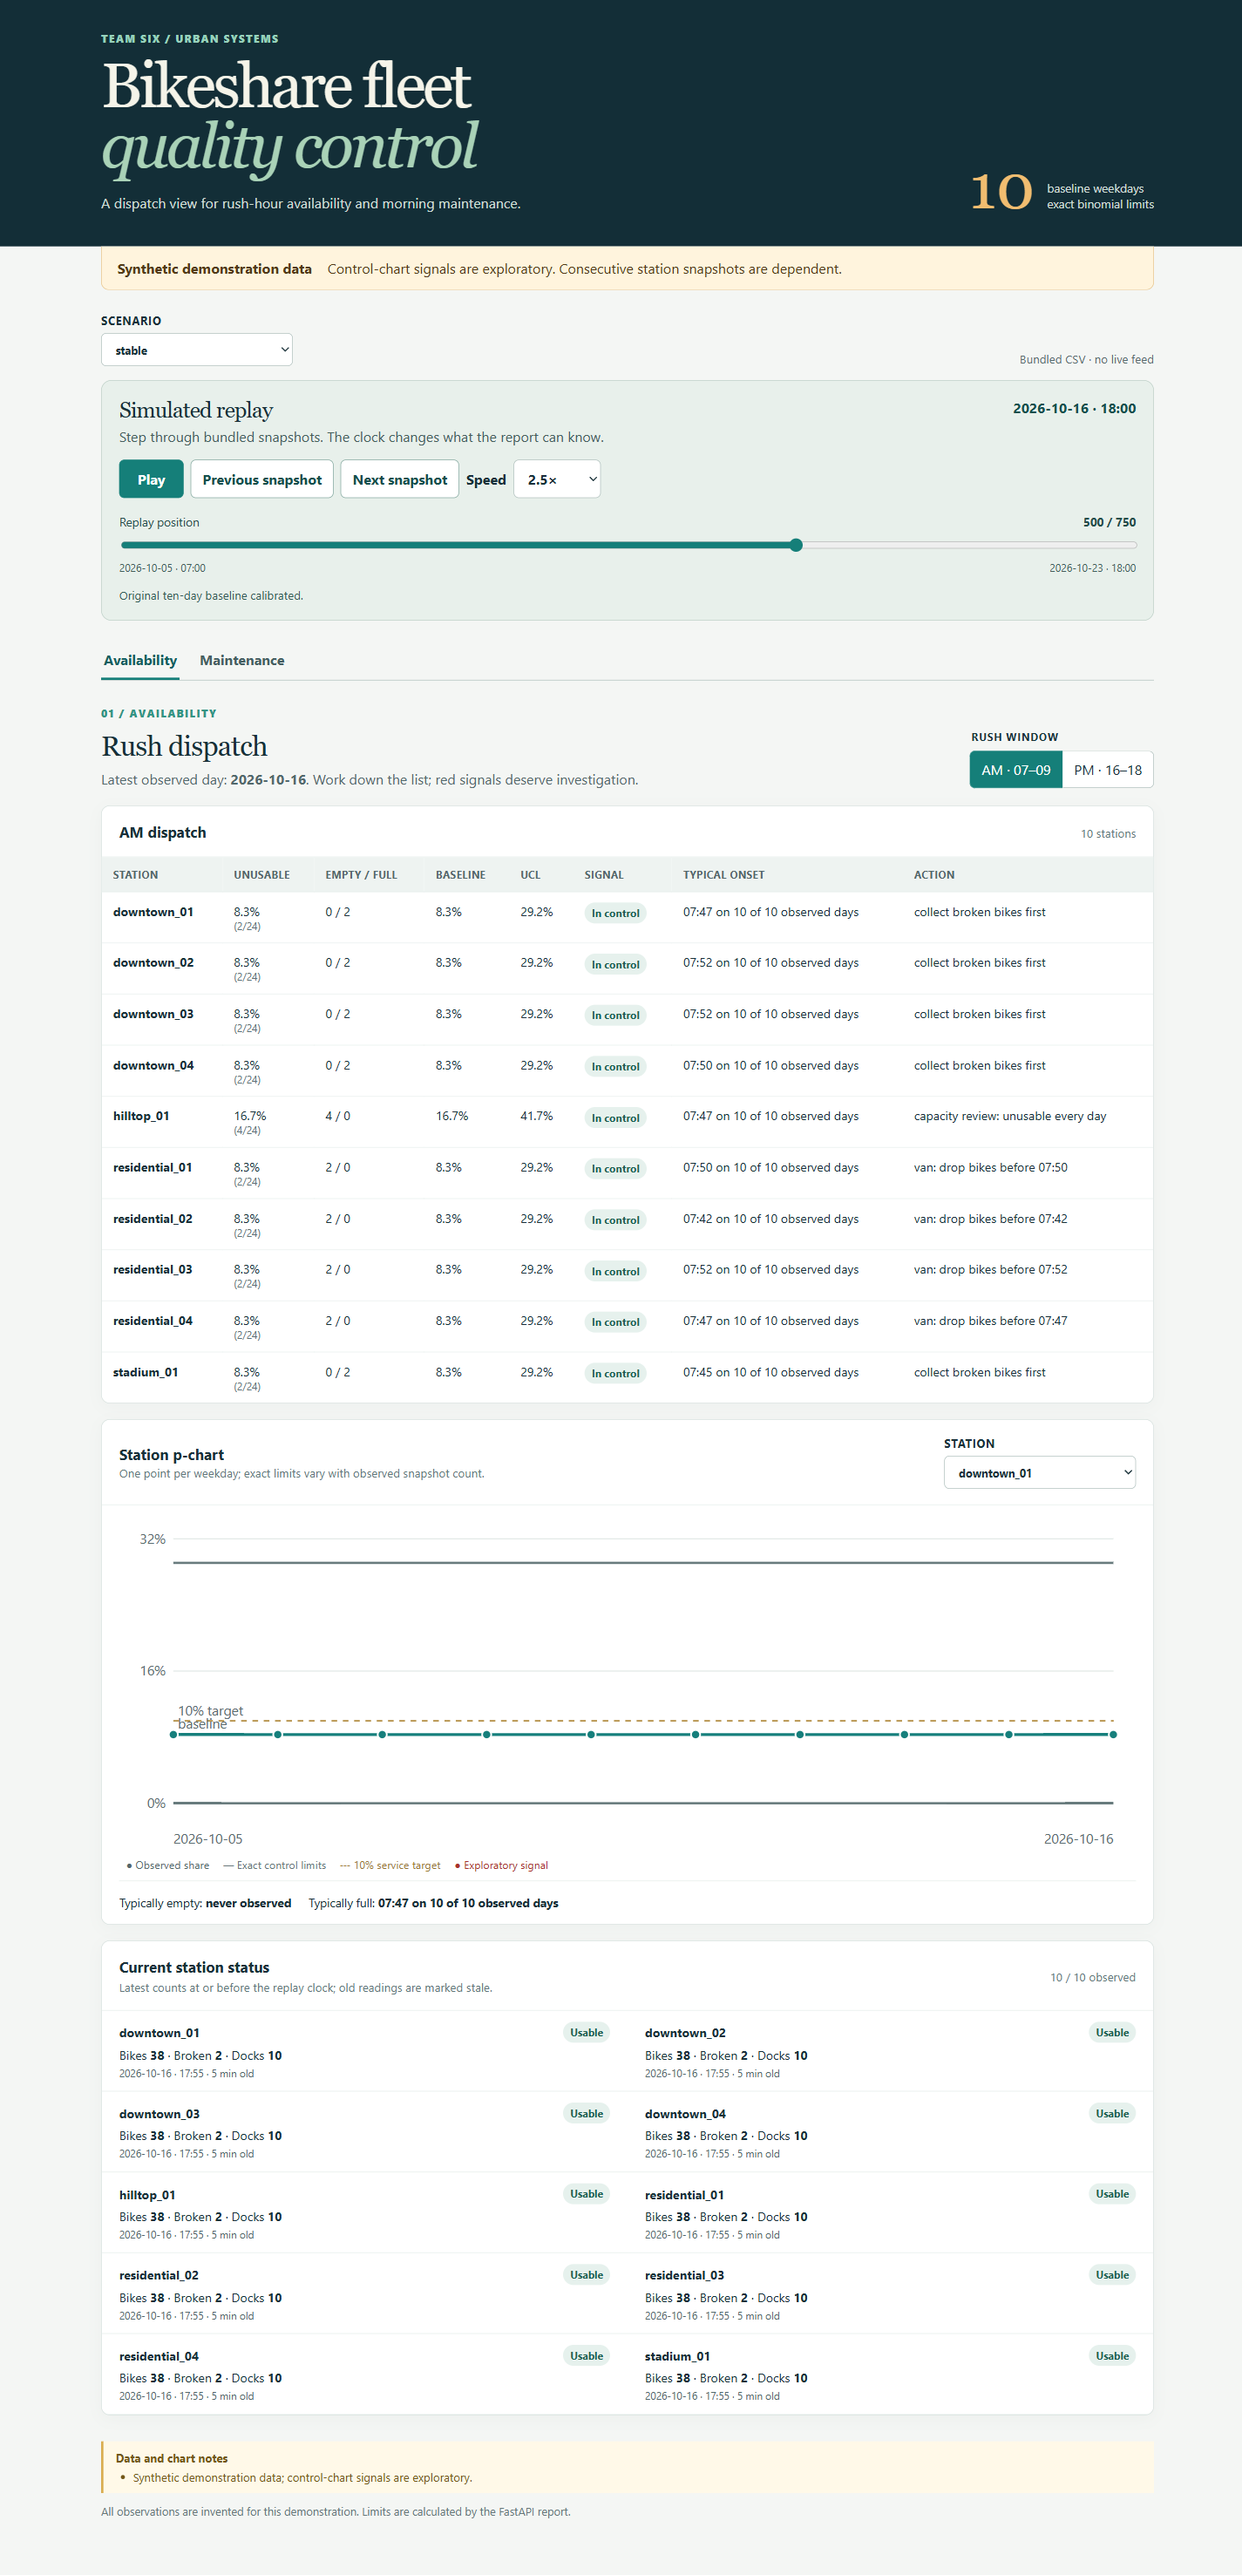
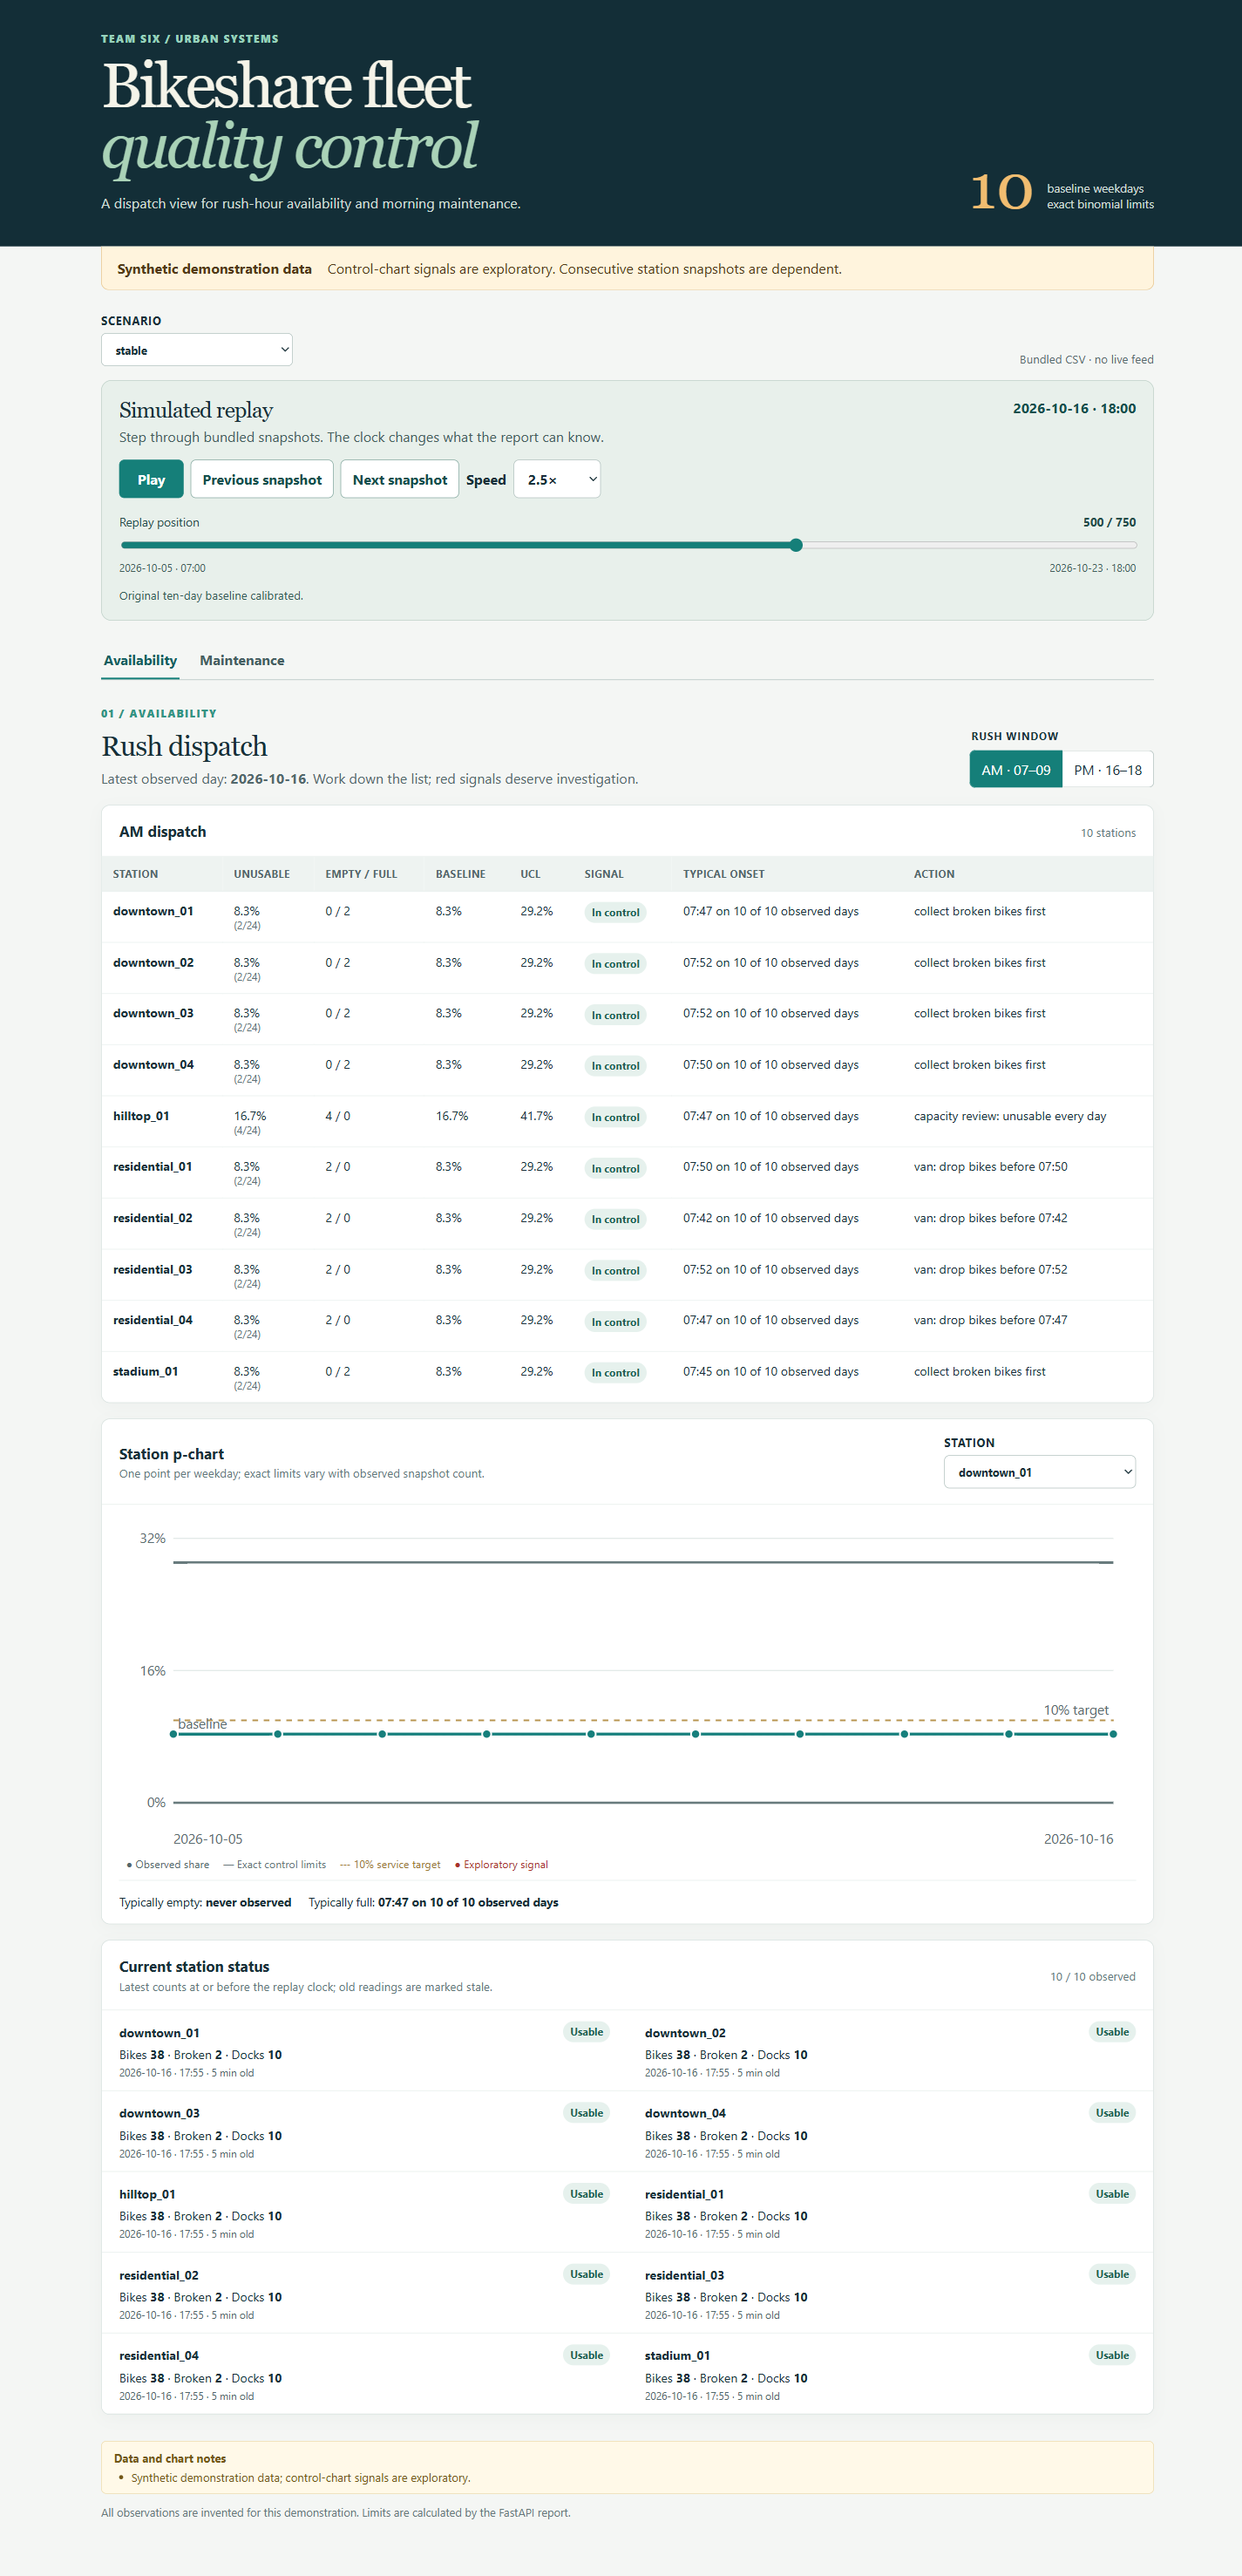
H-12: tone down accent borders and drop unloaded Inter font
Notes box uses a hairline border instead of a thick left accent, tab
underline is 2px, and the font stack is the system UI stack. Bundle and
manifest regenerated; 63 pytest + 4 vitest pass.

diff --git a/app/static/assets/index-B5sShBaw.css b/app/static/assets/index-B5sShBaw.css
@@ -1,0 +1,1 @@
+:root{font-family:system-ui,Segoe UI,-apple-system,Helvetica Neue,sans-serif;color:#183038;background:#f4f6f4;font-synthesis:none}*{box-sizing:border-box}html{overflow-x:hidden}body{margin:0}::selection{background:#a9d2b7;color:#132e37}button,select{font:inherit}button,select,input{accent-color:#157f79}:focus-visible{outline:3px solid #f1ab47;outline-offset:3px}.hero{background:#132e37;color:#f5f4e9}.hero-inner{max-width:1280px;min-height:265px;padding:36px 36px 40px;margin:auto;display:flex;justify-content:space-between;gap:36px;align-items:end}.eyebrow{color:#329484;font-size:.72rem;font-weight:800;text-transform:uppercase;letter-spacing:.14em;margin:0 0 12px}.hero .eyebrow{color:#98d1bc}h1,h2,h3,p{margin-top:0}h1{font-family:Georgia,serif;font-weight:400;font-size:clamp(2.6rem,5vw,4.9rem);line-height:.96;margin-bottom:20px;letter-spacing:-.045em}h1 em{color:#a9d2b7;font-weight:400}.intro{margin-bottom:0;color:#cfddd6}.hero-aside{display:flex;align-items:end;gap:14px;color:#cfddd6;white-space:nowrap;font-size:.85rem}.hero-number{font-family:Georgia,serif;font-size:4.5rem;line-height:.8;color:#f1bd70}.content{max-width:1280px;padding:0 36px 52px;margin:auto}.disclaimer{background:#fff4dd;border:1px solid #e6c184;border-top:0;border-radius:0 0 9px 9px;padding:14px 18px;display:flex;gap:18px;align-items:center;color:#523a17}.disclaimer strong{white-space:nowrap}.toolbar{margin:26px 0 16px;display:flex;justify-content:space-between;align-items:end;gap:16px}.toolbar label,.station-select{display:flex;flex-direction:column;gap:6px;font-size:.8rem;font-weight:750;text-transform:uppercase;letter-spacing:.06em}select{min-width:220px;background:#fff;color:#183038;border:1px solid #aabbb8;border-radius:6px;padding:9px 32px 9px 12px}.source{color:#566a6d;font-size:.83rem}.tabs{display:flex;border-bottom:1px solid #aabbb8;gap:20px;margin-bottom:30px}.tabs button{border:0;border-bottom:2px solid transparent;border-radius:0;background:transparent;color:#455e62;font-weight:750;padding:13px 3px 11px;cursor:pointer}.tabs button.active{color:#145e60;border-bottom-color:#157f79}.section-heading{display:flex;align-items:end;justify-content:space-between;gap:24px;margin-bottom:20px}h2{font-family:Georgia,serif;font-size:2rem;letter-spacing:-.025em;font-weight:400;margin-bottom:8px}.section-heading p:last-child{color:#52686b;margin-bottom:0}.segmented{border:0;display:flex;padding:0;margin:0;gap:0;white-space:nowrap}.segmented legend{font-size:.76rem;font-weight:750;text-transform:uppercase;letter-spacing:.06em;margin-bottom:8px}.segmented label{cursor:pointer}.segmented input{position:absolute;opacity:0}.segmented span{display:block;padding:10px 13px;background:#fff;border:1px solid #aabbb8}.segmented label:first-of-type span{border-radius:6px 0 0 6px}.segmented label:last-of-type span{border-radius:0 6px 6px 0;border-left:0}.segmented input:checked+span{background:#157f79;color:#fff;border-color:#157f79}.segmented input:focus-visible+span{outline:3px solid #f1ab47;outline-offset:3px}.panel{background:#fff;border:1px solid #d4dfdc;border-radius:10px;margin-bottom:18px;box-shadow:0 4px 18px #18303809;overflow:hidden}.panel-title{padding:18px 20px;display:flex;justify-content:space-between;align-items:center;gap:16px;border-bottom:1px solid #e3ebe9}h3{font-size:1.06rem;margin:0}.panel-title span,.panel-title p{color:#62777a;font-size:.83rem;margin:3px 0 0}.table-wrap{overflow-x:auto}table{width:100%;border-collapse:collapse;font-size:.88rem}th,td{text-align:left;padding:12px 13px;border-bottom:1px solid #e6edeb;vertical-align:top}thead th{background:#eef3f1;color:#52666a;font-size:.73rem;text-transform:uppercase;letter-spacing:.04em;white-space:nowrap}tbody tr:last-child th,tbody tr:last-child td{border-bottom:0}tbody th{font-weight:750;white-space:nowrap}td small{display:block;color:#607276}.signal-row{background:#fff4f0}.badge{display:inline-block;background:#e6f1ed;color:#1d5e50;border-radius:50px;padding:4px 8px;white-space:nowrap;font-size:.75rem;font-weight:750}.badge.bad{background:#f8ded9;color:#9d312b}.chart-panel{padding-bottom:16px}.chart-wrap{padding:15px 20px 0}svg{display:block;width:100%;height:auto;font-size:12px}svg text{fill:#5b6c70}.grid line{stroke:#e2eae7}.target line{stroke:#b7944e;stroke-width:1.5;stroke-dasharray:5 5}.center line{stroke:#4c7773;stroke-width:1.4;stroke-dasharray:3 4}.ucl,.lcl{stroke:#687b7d;fill:none;stroke-width:2}.series{stroke:#167f7c;fill:none;stroke-width:2.5}.point{fill:#167f7c;stroke:#fff;stroke-width:1.5}.point.signal{fill:#b43d33}.point.provisional{fill:#fff;stroke:#ac712c;stroke-width:3}.replay-panel{background:#e8f0eb;border:1px solid #bacdc4;border-radius:12px;padding:20px;margin:0 0 20px}.replay-title{display:flex;justify-content:space-between;align-items:start;gap:16px}.replay-title h2{font-size:1.55rem;margin:0 0 5px}.replay-title p{color:#45605c;margin:0 0 16px}.clock{font-variant-numeric:tabular-nums;white-space:nowrap;color:#154f4c;font-size:1rem}.replay-controls{display:flex;flex-wrap:wrap;align-items:end;gap:8px}.replay-controls button,.event-jumps button{min-height:44px;padding:9px 13px;background:#fff;border:1px solid #789f96;border-radius:6px;color:#154f4c;font-weight:700;cursor:pointer}.replay-controls button:first-child{background:#157f79;color:#fff;border-color:#157f79;min-width:74px}.replay-controls button:disabled{opacity:.5;cursor:default}.replay-controls label{display:flex;align-items:center;gap:8px;font-weight:700}.replay-controls select{min-width:86px;min-height:44px}.seek-label{display:flex;justify-content:space-between;margin-top:18px;color:#254d4a;font-size:.85rem}.seek{display:block;width:100%;height:32px;cursor:pointer}.replay-foot{display:flex;justify-content:space-between;gap:16px;color:#425d59;font-size:.75rem}.event-jumps{display:flex;align-items:center;flex-wrap:wrap;gap:8px;margin-top:14px}.event-jumps strong{margin-right:6px;font-size:.83rem}.calibration{margin:15px 0 0;color:#315953;font-size:.83rem}.provisional-note{padding:12px 16px;background:#fff3dd;color:#684519;border-radius:7px}.badge.caution{background:#fff0d4;color:#724817}.badge.neutral{background:#e5eaeb;color:#405457}.status-grid{display:grid;grid-template-columns:repeat(2,minmax(0,1fr))}.status-row{padding:13px 20px;border-bottom:1px solid #e3ebe9;display:grid;grid-template-columns:minmax(100px,1fr) auto;gap:4px 12px;align-items:center;font-size:.88rem;min-width:0}.status-row>span:nth-child(3),.status-row small{grid-column:1 / -1}.status-row small{color:#52686b}.status-row b{font-variant-numeric:tabular-nums}.status-panel .panel-title p{margin:4px 0 0}.tabs button{min-height:44px}.table-wrap{scrollbar-color:#719c92 #eef3f1}.chart-key{display:flex;flex-wrap:wrap;gap:16px;color:#54696b;font-size:.77rem;padding:0 8px;margin:0 0 8px}.key-limit{color:#667579}.key-target{color:#9a7837}.key-signal{color:#a9322c}.onset{display:flex;flex-wrap:wrap;gap:20px;margin:0 20px;border-top:1px solid #e3ebe9;padding-top:15px;font-size:.85rem}.warnings{margin:16px 20px 0;color:#725717;background:#fff9e8;border:1px solid #ecd9a6;border-radius:6px;padding:10px 14px;font-size:.82rem}.warnings ul{margin:5px 0 0;padding-left:20px}.empty,.loading,.error{padding:20px}.error{color:#a9322c}footer{color:#667779;font-size:.8rem;margin-top:30px}footer .warnings{margin:0 0 12px}@media(max-width:760px){.hero-inner{padding:28px 20px 34px;min-height:230px}.hero-aside{display:none}.content{padding:0 16px 40px}.section-heading{align-items:start;flex-direction:column}.disclaimer{align-items:start;flex-direction:column;gap:3px}.panel-title{align-items:start;flex-direction:column}.station-select,.station-select select{width:100%}.toolbar{align-items:start;flex-direction:column}.source{display:none}}@media(max-width:760px){.replay-title{flex-direction:column;gap:3px}.replay-controls button{flex:1 1 auto}.status-grid{grid-template-columns:1fr}.chart-wrap{padding:12px 8px 0}.chart-wrap svg{min-width:530px}.chart-wrap{overflow-x:auto}.onset{flex-direction:column;gap:7px}.panel-title,.status-row{padding-left:14px;padding-right:14px}}@media(max-width:420px){.hero-inner{min-height:190px}.hero h1{font-size:2.3rem}.content{padding-inline:12px}.disclaimer{padding:12px}.replay-panel{padding:14px}.replay-foot{font-size:.65rem}.segmented span{padding:10px}.tabs{margin-bottom:20px}}@media(prefers-reduced-motion:reduce){*,*:before,*:after{scroll-behavior:auto!important;animation-duration:.01ms!important;transition-duration:.01ms!important}}

diff --git a/app/frontend/src/styles.css b/app/frontend/src/styles.css
@@ -1,4 +1,4 @@
-:root { font-family: Inter, ui-sans-serif, system-ui, "Segoe UI", sans-serif; color: #183038; background: #f4f6f4; font-synthesis: none; }
+:root { font-family: system-ui, "Segoe UI", -apple-system, "Helvetica Neue", sans-serif; color: #183038; background: #f4f6f4; font-synthesis: none; }
 * { box-sizing: border-box; }
 html { overflow-x: hidden; }
 body { margin: 0; }
@@ -24,7 +24,7 @@ h1 em { color: #a9d2b7; font-weight: normal; }
 select { min-width: 220px; background: white; color: #183038; border: 1px solid #aabbb8; border-radius: 6px; padding: 9px 32px 9px 12px; }
 .source { color: #566a6d; font-size: .83rem; }
 .tabs { display: flex; border-bottom: 1px solid #aabbb8; gap: 20px; margin-bottom: 30px; }
-.tabs button { border: 0; border-bottom: 3px solid transparent; background: transparent; color: #455e62; font-weight: 750; padding: 13px 3px 11px; cursor: pointer; }
+.tabs button { border: 0; border-bottom: 2px solid transparent; border-radius: 0; background: transparent; color: #455e62; font-weight: 750; padding: 13px 3px 11px; cursor: pointer; }
 .tabs button.active { color: #145e60; border-bottom-color: #157f79; }
 .section-heading { display: flex; align-items: end; justify-content: space-between; gap: 24px; margin-bottom: 20px; }
 h2 { font-family: Georgia, serif; font-size: 2rem; letter-spacing: -.025em; font-weight: normal; margin-bottom: 8px; }
@@ -95,7 +95,7 @@ svg text { fill: #5b6c70; }
 .chart-key { display: flex; flex-wrap: wrap; gap: 16px; color: #54696b; font-size: .77rem; padding: 0 8px; margin: 0 0 8px; }
 .key-limit { color: #667579; }.key-target { color: #9a7837; }.key-signal { color: #a9322c; }
 .onset { display: flex; flex-wrap: wrap; gap: 20px; margin: 0 20px; border-top: 1px solid #e3ebe9; padding-top: 15px; font-size: .85rem; }
-.warnings { margin: 16px 20px 0; color: #725717; background: #fff9e8; border-left: 3px solid #d9ad4f; padding: 10px 14px; font-size: .82rem; }
+.warnings { margin: 16px 20px 0; color: #725717; background: #fff9e8; border: 1px solid #ecd9a6; border-radius: 6px; padding: 10px 14px; font-size: .82rem; }
 .warnings ul { margin: 5px 0 0; padding-left: 20px; }
 .empty, .loading, .error { padding: 20px; }
 .error { color: #a9322c; }

diff --git a/app/static/index.html b/app/static/index.html
@@ -5,8 +5,8 @@
     <meta name="viewport" content="width=device-width, initial-scale=1.0" />
     <meta name="theme-color" content="#132e37" />
     <title>Bikeshare Fleet Quality Control</title>
-    <script type="module" crossorigin src="./assets/index-BezrHRXg.js"></script>
-    <link rel="stylesheet" crossorigin href="./assets/index-Boul_UeS.css">
+    <script type="module" crossorigin src="./assets/index-CToDK7uC.js"></script>
+    <link rel="stylesheet" crossorigin href="./assets/index-B5sShBaw.css">
   </head>
   <body>
     <div id="root"></div>
